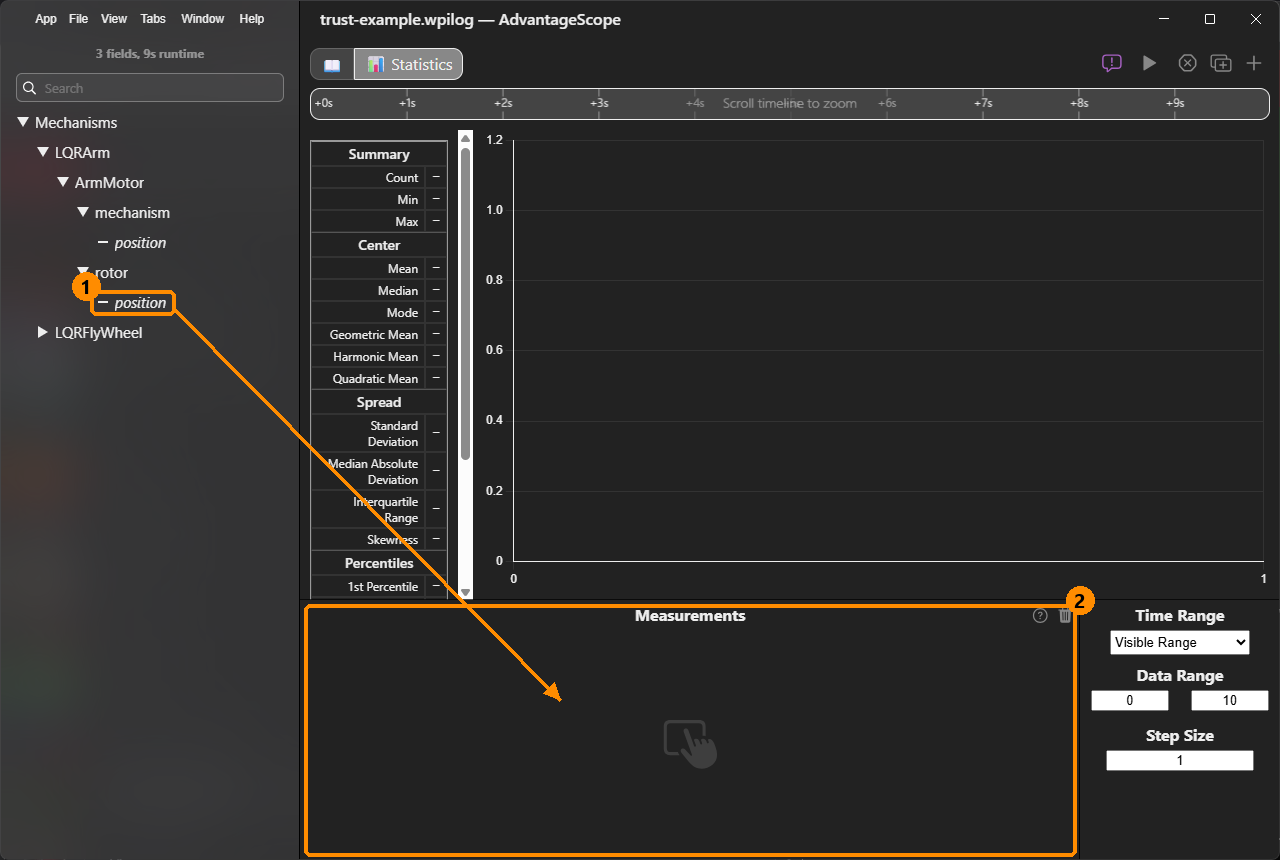
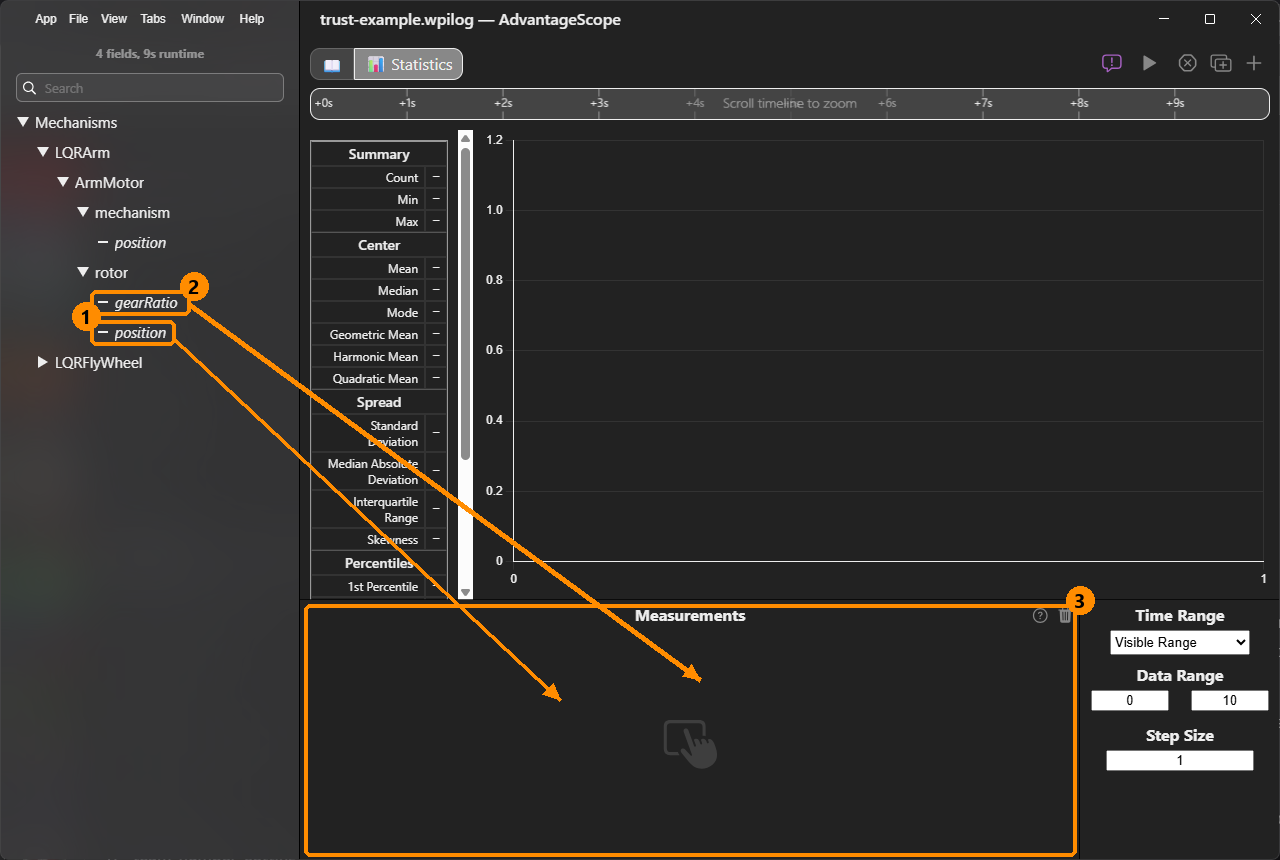
Encoder noise: read the gear ratio and circumference from the log
YAMS now logs rotor/gearRatio and measurement/circumference (YAMS #266), so
the encoder-noise page reads them in AdvantageScope's Statistics view instead
of asking students to work the ratio out from their config: drag
rotor/position and rotor/gearRatio, then divide the standard deviation by the
gear ratio's Mean. The drag and read screenshots are retaken with the new field,
and "If it did not work" keeps the config forms and the print for older YAMS,
where a sprocket written as a number is a step-up. Keys and units lists both
fields.

diff --git a/how-to/how-do-i-measure-my-encoders-noise.md b/how-to/how-do-i-measure-my-encoders-noise.md
@@ -49,18 +49,21 @@ Click **Tabs**, then **New Tab**, then **Statistics**. The shortcut is Alt+S.
 {% endstep %}
 
 {% step %}
-### Drag the encoder's field into Measurements
+### Drag the encoder's fields into Measurements
 
-In the sidebar, open **Mechanisms**, then your mechanism, then your motor. Drag the field to the **Measurements** list:
+In the sidebar, open **Mechanisms**, then your mechanism, then your motor. Drag these to the **Measurements** list:
 
-* **An arm, pivot or elevator:** `rotor/position`, the motor's own encoder.
+* **An arm or pivot:** `rotor/position`, the motor's own encoder, and `rotor/gearRatio`, the gear ratio YAMS uses.
+* **An elevator:** the same two, and `measurement/circumference`.
 * **A flywheel:** `mechanism/velocity`.
 
-<figure><img src="../.gitbook/assets/lqr-stats-3-drag-field.png" alt="A Statistics tab in AdvantageScope 2027, with the sidebar opened to Mechanisms, LQRArm, ArmMotor, rotor, position. Box 1 is around rotor's position field, and an arrow leads from it to box 2, the empty Measurements list at the bottom of the tab."><figcaption><p>Drag the field into the Measurements list.</p></figcaption></figure>
+<figure><img src="../.gitbook/assets/lqr-stats-3-drag-field.png" alt="A Statistics tab in AdvantageScope 2027, with the sidebar opened to Mechanisms, LQRArm, ArmMotor, rotor, which holds gearRatio and position. Box 1 is around rotor's position field and box 2 around gearRatio, and an arrow leads from each to box 3, the empty Measurements list at the bottom of the tab."><figcaption><p>Drag rotor/position and rotor/gearRatio into the Measurements list.</p></figcaption></figure>
 
-**Why the rotor, and not `mechanism/position`?** The Statistics view shows three decimal places, and YAMS logs a mechanism's position in rotations. An arm's noise is a few thousandths of a rotation, which rounds to 0.000. The motor turns gear ratio times further than the arm, so its noise shows. An elevator's `measurement/position` in meters rounds away the same way.
+**Why the rotor, and not `mechanism/position`?** The Statistics view shows three decimal places, and YAMS logs a mechanism's position in rotations. An arm's noise is a few ten-thousandths of a rotation, which rounds to 0.000. The motor turns gear-ratio times further than the arm, so its noise shows, and `rotor/gearRatio` turns it back into the arm's. An elevator's `measurement/position` in meters rounds away the same way.
 
-**Check it:** the field appears in the Measurements list, and a histogram appears above it.
+<figure><img src="../.gitbook/assets/lqr-stats-5-read-arm.png" alt="AdvantageScope 2027's Statistics tab with two fields: the arm's mechanism/position in yellow and its motor's rotor/position in blue. Box 1 is around the Standard Deviation row, which reads 0.000 for mechanism/position and 0.020 for rotor/position; a second box marks the 0.020."><figcaption><p>The same noise: 0.000 at the arm, which rounds away, and 0.020 at the motor.</p></figcaption></figure>
+
+**Check it:** the fields appear in the Measurements list, and a histogram appears above them.
 {% endstep %}
 
 {% step %}
@@ -78,17 +81,17 @@ If the log also has the mechanism moving, use **Visible Range** instead, and zoo
 {% step %}
 ### Read the standard deviation
 
-Read **Standard Deviation**, under Spread in the table.
+Read the encoder's **Standard Deviation**, under Spread, and the gear ratio: `rotor/gearRatio`'s **Mean**, under Center. An elevator's circumference is `measurement/circumference`'s Mean, in meters.
 
-<figure><img src="../.gitbook/assets/lqr-stats-5-read-arm.png" alt="AdvantageScope 2027's Statistics tab with two fields: the arm's mechanism/position in yellow and its motor's rotor/position in blue. Box 1 is around the Standard Deviation row, which reads 0.000 for mechanism/position and 0.020 for rotor/position; a second box marks the 0.020."><figcaption><p>The same noise: 0.000 at the arm, which rounds away, and 0.020 at the motor.</p></figcaption></figure>
+<figure><img src="../.gitbook/assets/lqr-stats-5-read-ratio.png" alt="AdvantageScope 2027's Statistics tab with rotor/position in blue and rotor/gearRatio in green. Box 1 is around rotor/position's Standard Deviation, 0.020. Box 2 is around rotor/gearRatio's Mean, 60.000."><figcaption><p>The rotor's noise, 0.020 rotations, and the gear ratio, 60.</p></figcaption></figure>
 
 Then convert it to the units the LQR's encoder trust takes:
 
-| Mechanism | Field | Encoder trust |
-| --- | --- | --- |
-| Arm, pivot | `rotor/position` | Standard deviation ÷ gear ratio × 360 = degrees |
-| Elevator | `rotor/position` | Standard deviation ÷ gear ratio × mechanism circumference = meters |
-| Flywheel | `mechanism/velocity` | Standard deviation × 60 = RPM |
+| Mechanism | Encoder trust |
+| --- | --- |
+| Arm, pivot | `rotor/position`'s standard deviation ÷ `rotor/gearRatio` × 360 = degrees |
+| Elevator | `rotor/position`'s standard deviation ÷ `rotor/gearRatio` × `measurement/circumference` = meters |
+| Flywheel | `mechanism/velocity`'s standard deviation × 60 = RPM |
 
 For the example arm: 0.020 ÷ 60 × 360 = **0.12°**. For the example flywheel, 0.100 rotations per second × 60 = **6 RPM**:
 
@@ -99,6 +102,17 @@ For the example arm: 0.020 ÷ 60 × 360 = **0.12°**. For the example flywheel, 
 {% endstepper %}
 
 ## If it did not work
+
+* **There is no `rotor/gearRatio` or `measurement/circumference`.** Your YAMS is older than the release that logs them. Work the gear ratio out from your motor config's `withGearing(...)`, or print it with `System.out.println(config.getGearing().getMechanismToRotorRatio())` (C++ `config.GetMotorGearing()->GetMechanismToRotorRatio()`):
+
+  | Your config | Gear ratio |
+  | --- | --- |
+  | `new MechanismGearing(60)` | 60 |
+  | `new MechanismGearing(GearBox.fromReductionStages(3, 4))`, or `fromStages("3:1", "4:1")` | 3 × 4 = 12 |
+  | `new MechanismGearing(GearBox.fromTeeth(12, 60))` | 60 ÷ 12 = 5 |
+  | `new MechanismGearing(GearBox.fromReductionStages(3, 4), Sprocket.fromStages("12:24"))` | 3 × 4 × 2 = 24 |
+
+  A sprocket written as a number, such as `new Sprocket(2)`, is a 1:2 step-up, which divides the ratio instead: print it to be sure. An elevator's circumference is what you gave `withMechanismCircumference(...)`, or 2 × π × the drum radius.
 
 * **Count is 1, or the table shows dashes.** The time range does not cover the log: set Time Range to Full Log, or zoom the timeline to the part you want with Visible Range.
 * **Standard Deviation is 0.000 for `rotor/position` too.** The noise is smaller than one count of the encoder. Use one count divided by 3.5 (√12) instead: a NEO's built-in encoder counts 42 times a motor turn, so on a 60:1 arm one count is 360° ÷ (42 × 60) = 0.14°, and its trust about 0.04°.

diff --git a/details/live-tuning/keys-and-units.md b/details/live-tuning/keys-and-units.md
@@ -267,6 +267,7 @@ Read-only keys are under `NT:/Mechanisms`. Keys marked **tunable** also have an 
 | `mechanism/velocity` | Rotations per second (rot/s) | Velocity of the mechanism output shaft | No |
 | `rotor/position` | Rotations (rot) | Position of the motor rotor, before gearing | No |
 | `rotor/velocity` | Rotations per second (rot/s) | Velocity of the motor rotor | No |
+| `rotor/gearRatio` | None | Rotor rotations per mechanism rotation, the gear ratio YAMS converts with: 60 for a 60:1 arm. Divide a `rotor/` value by it to get the mechanism's | No |
 | `closedloop/setpoint/position` | Rotations, or meters for linear mechanisms | Closed loop position target | **Tunable**, typed in degrees (or meters) |
 | `closedloop/setpoint/velocity` | rot/s, or m/s | Closed loop velocity target | **Tunable**, typed in RPM (or m/s) |
 | `mechanism/limit/lower`, `mechanism/limit/upper` | Not published | Soft limits | **Tunable only**, typed in degrees |
@@ -298,6 +299,7 @@ When a mechanism has a circumference (from `.withMechanismCircumference()`, or o
 | NetworkTables key                                    | Unit                    | Description                      |
 | ---------------------------------------------------- | ----------------------- | -------------------------------- |
 | `measurement/position`                               | Meters (m)              | Linear position of the mechanism |
+| `measurement/circumference`                          | Meters (m)              | Meters the mechanism moves per mechanism rotation |
 | `measurement/velocity`                               | Meters per second (m/s) | Linear velocity of the mechanism |
 | `measurement/limit/lower`, `measurement/limit/upper` | Meters (m)              | Soft limits in linear units. **Tunable only**, under `NT:/Tuning` |
 
